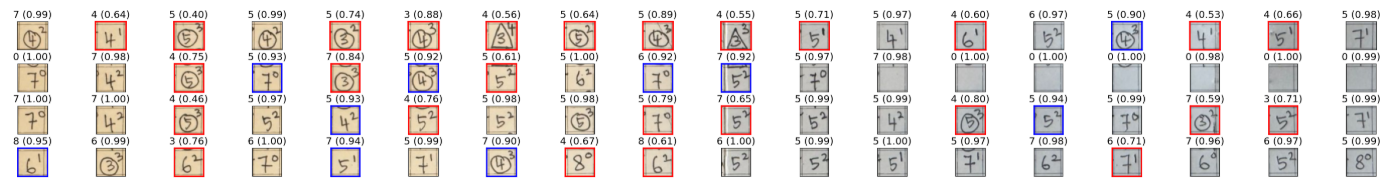
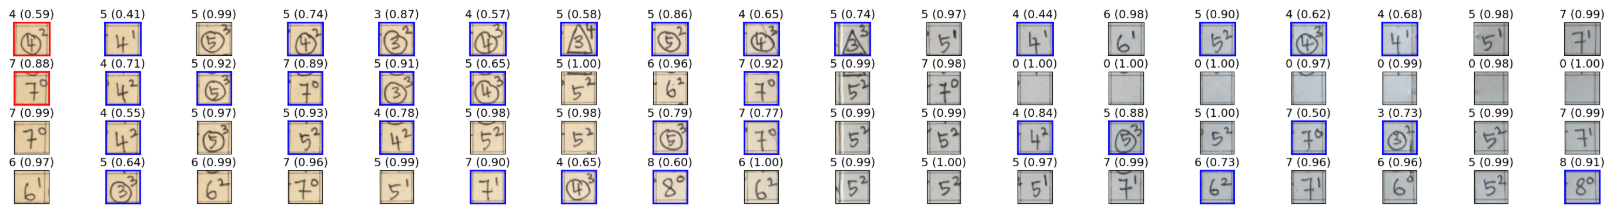
higher performance with fine-tuned resnet18 + visualization bugs in production pipeline

Changed region(s): [[0.0, 0.0272, 0.7115, 1.0], [0.7424, 0.0272, 1.0, 1.0]]

diff --git a/README.md b/README.md
@@ -2,7 +2,7 @@
 
 Author: Xin Ying Leong (https://www.linkedin.com/in/blxy)
 
-> This project is still in progress... working on cell recognition accuracy...
+> This project is still in progress... working on image registration...
 
 This project builds a specialized OCR pipeline to extract handwritten scores from a single snapshot for subsequent score digitalization.
 Golf scores often include messy handwritting, superscripts and shapes, making it a challenge for the recognition of the main digit.
@@ -12,7 +12,11 @@ The pipeline includes the following stages:
 ![Image_matched](displays/image_match.png)
 ![Image_registered](displays/image_reg.png)
 
-- Score cells are passed through a Convolutional Neural Network (CNN) for classification, classes include digits 1-9 and the blank cell (`-`). Confidence scores are returned with the prediction for threshold-based decision making.
+- Score cells are passed through a Fine-tuned Resnet-18 for classification, classes include digits 1-9 and the blank cell (`-`). Confidence scores are returned with the prediction for threshold-based decision making. (0 errors)
+
+![Image_recognition](displays/cell_rec_resnet18.png)
+
+- Older version: Score cells are passed through a Convolutional Neural Network (CNN) for classification, classes include digits 1-9 and the blank cell (`-`). Confidence scores are returned with the prediction for threshold-based decision making. (7 errors)
 
 ![Image_recognition](displays/cell_rec.png)
 